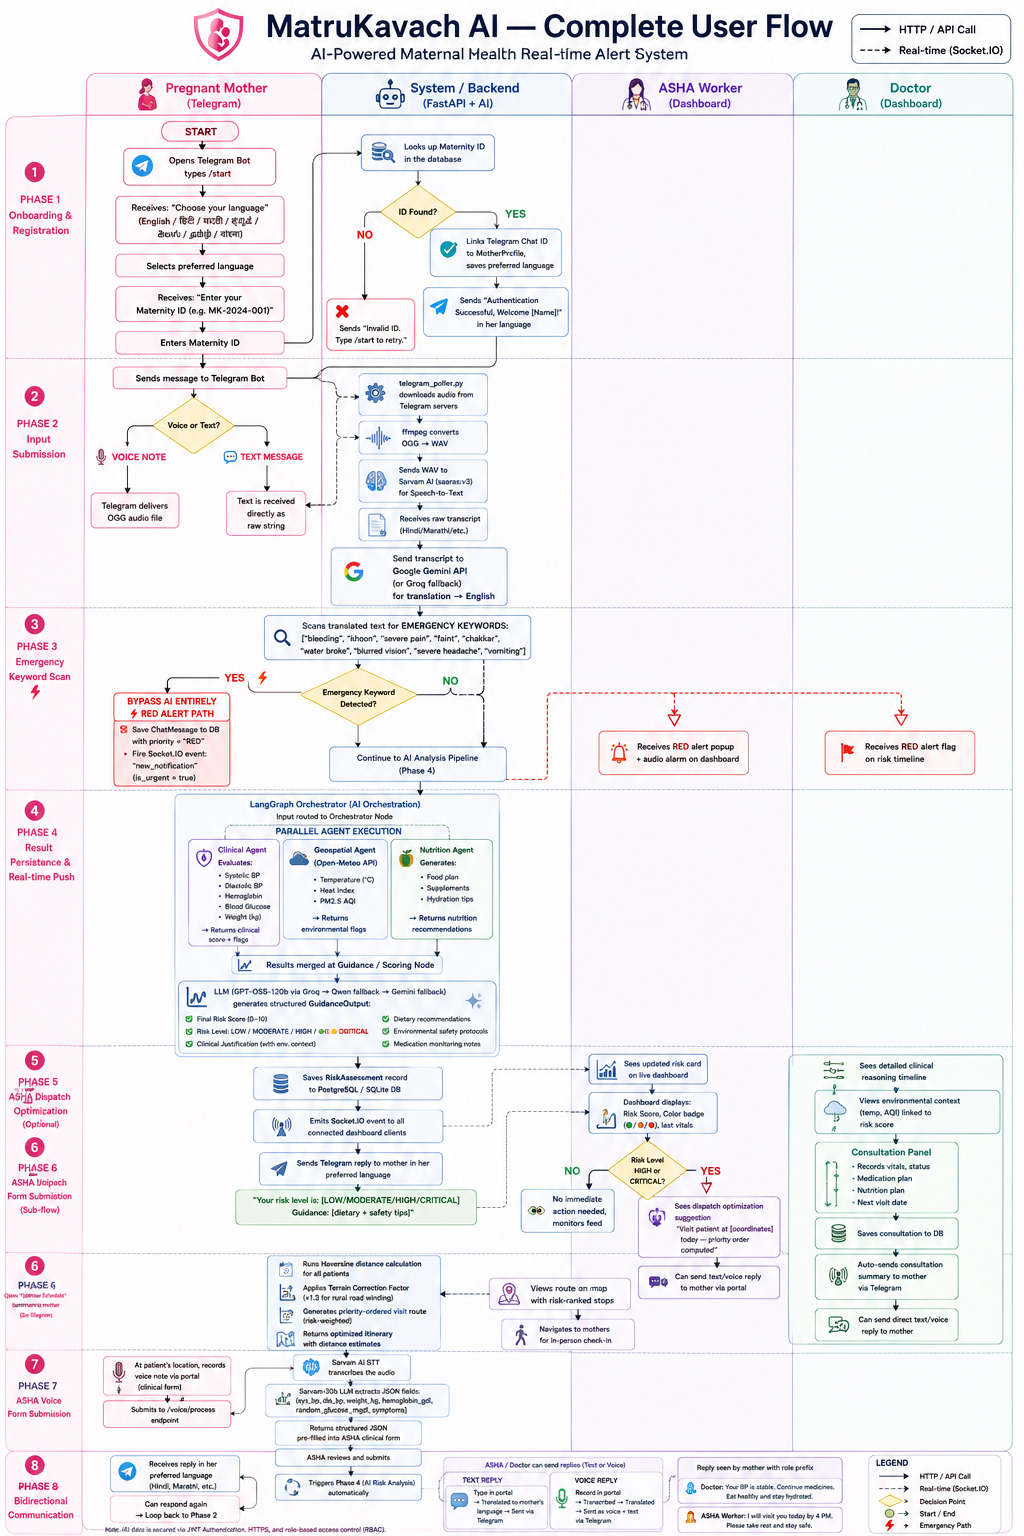
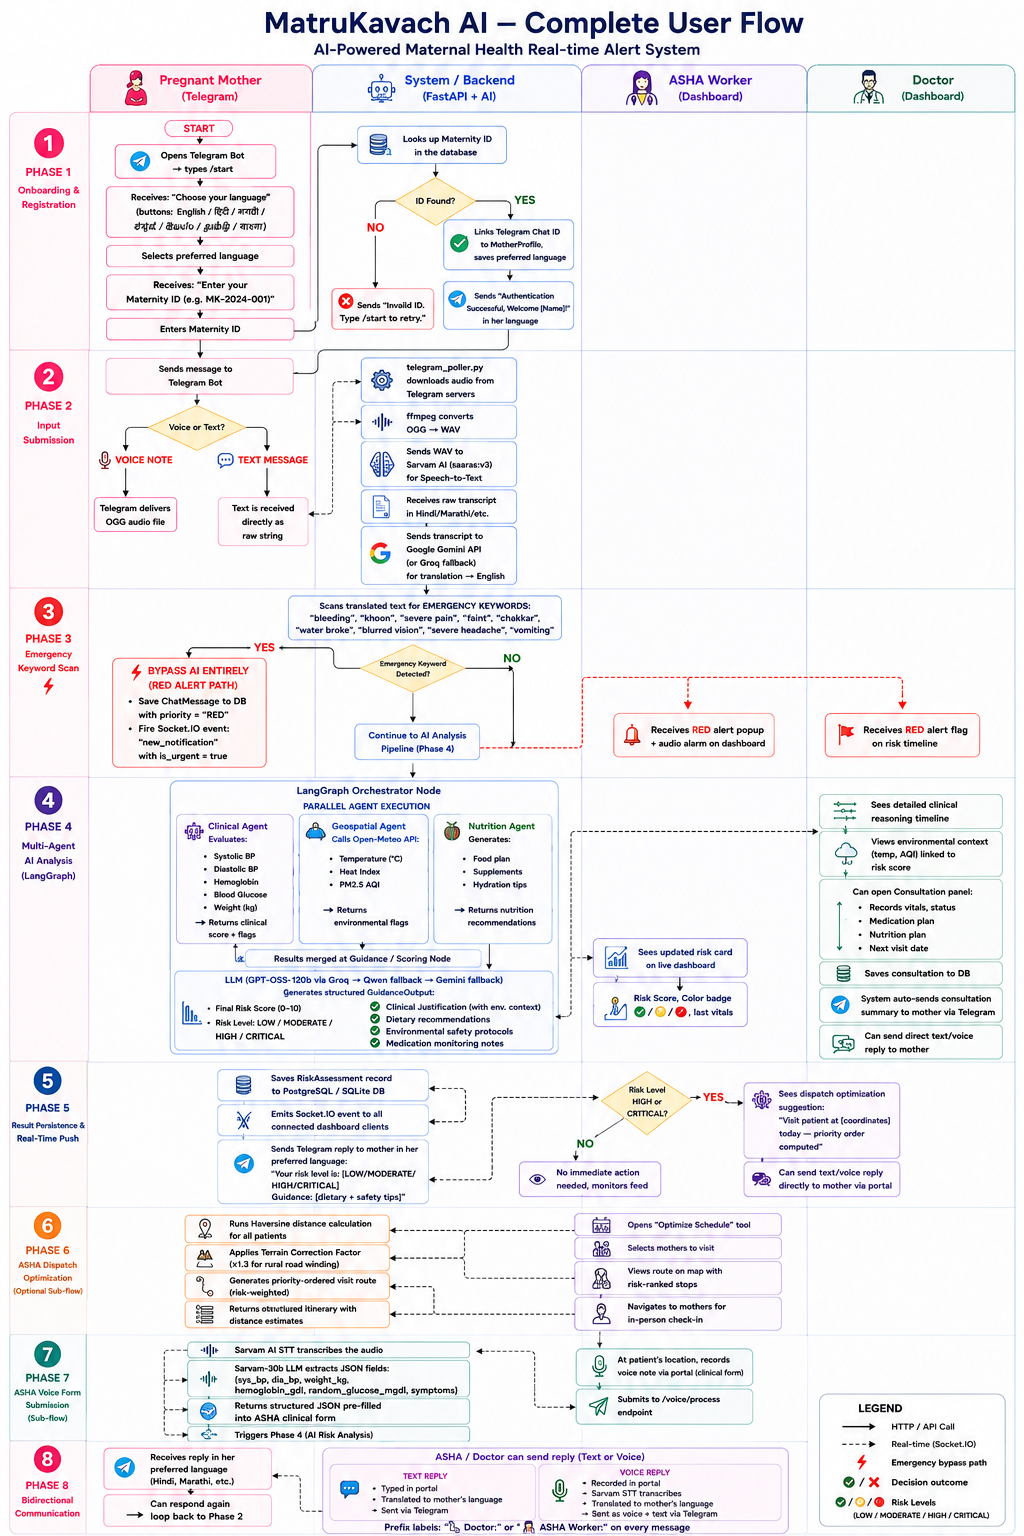
docs: update README layout and refresh user flow diagram image

diff --git a/README.md b/README.md
@@ -1,6 +1,22 @@
 # 🛡️ MatruKavach AI
 ### AI-Powered Maternal Health Risk Detection & Real-Time Alert System
 
+---
+
+## 📌 The Problem
+
+Maternal mortality remains one of the most preventable yet persistent public health crises in rural India. Despite national programs like Janani Suraksha Yojana, thousands of preventable maternal deaths occur annually — primarily due to **three systemic failures**:
+
+1. **Delayed Detection**: Warning signs of life-threatening conditions such as Preeclampsia, severe anaemia, and gestational diabetes go unnoticed until they become emergencies — because routine check-ups are infrequent and self-reporting is limited.
+2. **Communication Barriers**: Pregnant mothers in rural and semi-urban areas speak regional languages (Hindi, Marathi, Kannada, Telugu, Tamil, Bengali) and have no reliable, language-accessible channel to report symptoms to healthcare workers between visits.
+3. **Overburdened Frontline Workers**: ASHA (Accredited Social Health Activist) workers manage large patient loads with no intelligent prioritisation. They cannot determine which mother needs an urgent home visit today versus which can wait — leading to critical cases being missed.
+
+> **The gap is not medical knowledge — it is timely, intelligent information flow.**
+
+---
+
+## 💡 Solution Overview: Introducing MatruKavach AI
+
 MatruKavach AI is an intelligent, context-aware maternal healthcare assistant designed to minimise preventable maternal mortality by detecting risks early. It bridges rural healthcare gaps by connecting pregnant mothers directly with ASHA (Accredited Social Health Activist) workers and doctors through a real-time, multi-agent AI system.
 
 The system fuses **environmental data (air quality, temperature, heat index)**, **clinical vitals (blood pressure, glucose, haemoglobin)**, and **local language voice messages (Hindi, Marathi, Kannada, Telugu, Tamil, Bengali)** to deliver proactive, real-time early warnings — all accessible via Telegram with no app download required.
@@ -201,6 +217,18 @@ docker-compose down
 | **ASHA Route Efficiency** | OR-Tools VRP reduces travel time by an estimated **20–35%** |
 | **Language Coverage** | **7 Indian languages** — accessible to 900M+ speakers |
 | **Infrastructure Barrier** | Zero — runs on Telegram, no app download required |
+
+---
+
+## 📈 Scalability & Future Vision
+
+MatruKavach AI is architected from the ground up to scale from localized pilot deployments to state and national healthcare networks:
+
+- **Horizontal Compute Scaling**: The stateless FastAPI backend is easily containerized and deployed behind a load balancer (e.g., Nginx or AWS ALB) using Docker Compose or Kubernetes. Since Socket.IO real-time alerts utilize Redis for event broadcasting, backend instances can scale out horizontally without losing connection states or WebSocket delivery sync.
+- **Modular Multi-Agent Pipeline**: The state-driven LangGraph orchestrator allows rapid onboarding of new specialized clinical nodes (e.g., Postpartum Hemorrhage monitoring, Neonatal Vitals tracking, or Pediatric Development screening) simply by adding isolated node functions without modifying the core system skeleton.
+- **Production Database Scalability**: Utilizing Neon Serverless PostgreSQL enables auto-scaling database compute resources dynamically based on API load. For national-scale deployment, patient profiles and risk assessments can be partitioned or sharded geographically (e.g., by State or Health Block) to handle millions of active records with minimal latency.
+- **HL7 FHIR Interoperability**: Built with a standardized FHIR synchronization architecture (`MockFHIRProvider` mapping to Epic/Epic-like EHR interfaces), the platform is ready to integrate out-of-the-box with government portals like India's Ayushman Bharat Digital Mission (ABDM) and traditional hospital Information Management Systems (LIMS/EHR).
+- **Federated Offline Resilience**: By deploying local SQLite databases running SQLCipher alongside the in-memory `EmbeddedQueueRegistry` at remote Primary Health Centres (PHCs), localized clinical teams can operate continuously during complete network dropouts. Once connection is restored, cached data is queued and synchronized back to the master Neon Postgres instance out-of-band.
 
 ---
 